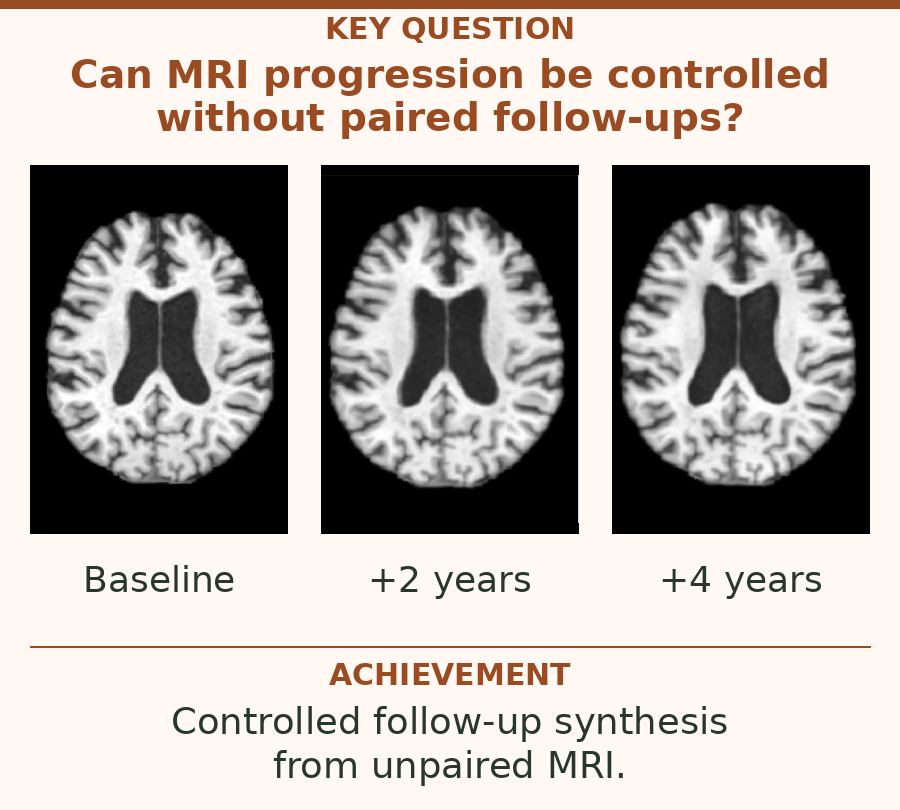
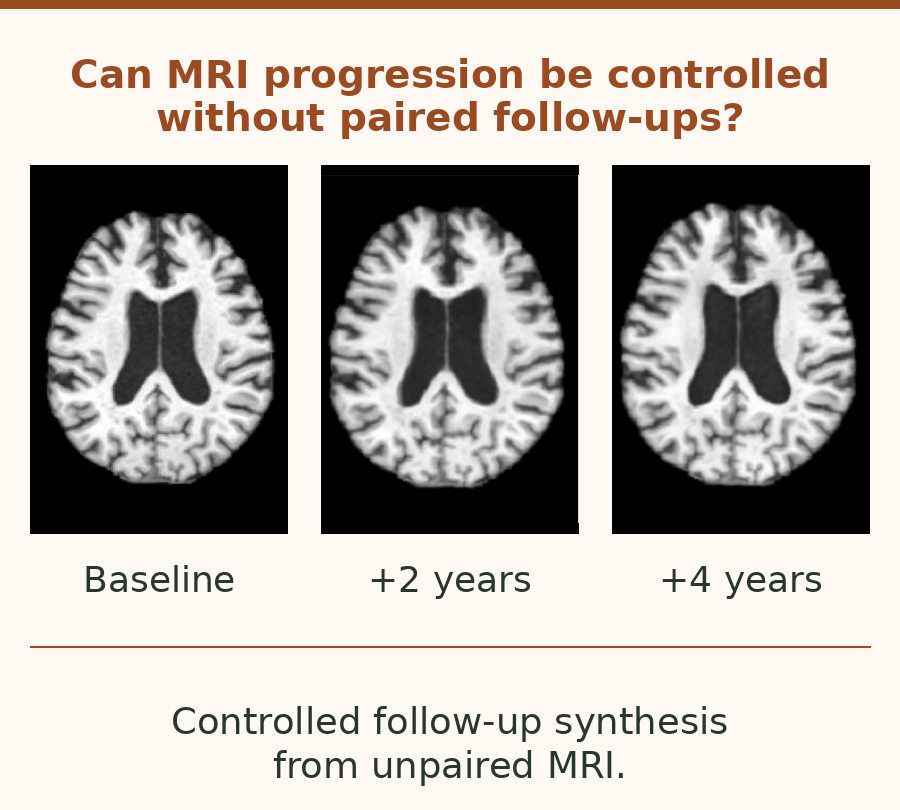
Remove headings from work highlight images
Remove only the Key question and Achievement labels while preserving all statements, medical imagery and modelling flows.

Copilot-Session: de9f66c0-7970-44bd-9dd5-6290aaad4bb2

Changed region(s): [[0.3422, 0.0, 0.6533, 0.0617], [0.3733, 0.8025, 0.6222, 0.8642]]

diff --git a/index.html b/index.html
@@ -81,7 +81,7 @@
 
       <div class="pub-card highlight">
         <a class="pub-thumb" href="https://arxiv.org/abs/2603.01552" target="_blank">
-          <img src="assets/papers/align-cdae-thesis.webp?v=2" alt="Key question: Can clinical cues guide anatomical change in MRI? Baseline MRI, attention overlay and predicted follow-up. Achievement: aligned clinical conditioning with progression-specific anatomy." width="900" height="810" loading="lazy" />
+          <img src="assets/papers/align-cdae-thesis.webp?v=3" alt="Can clinical cues guide anatomical change in MRI? Baseline MRI, attention overlay and predicted follow-up. Aligned clinical conditioning with progression-specific anatomy." width="900" height="810" loading="lazy" />
           <span class="architecture-flow flow-align" role="img" aria-label="Simplified Align-cDAE architecture: MRI encoder, attention-aligned conditional modelling, diffusion decoder.">
             <span class="flow-step" aria-hidden="true"><span>MRI<br />encoder</span></span>
             <span class="flow-step flow-modelling" aria-hidden="true"><span>Attention<br />aligned<br />Modelling</span></span>
@@ -101,7 +101,7 @@
 
       <div class="pub-card highlight">
         <a class="pub-thumb" href="https://arxiv.org/abs/2511.05934" target="_blank">
-          <img src="assets/papers/ad-dae-thesis.webp?v=2" alt="Key question: Can MRI progression be controlled without paired follow-ups? Acquired baseline MRI and predictions two and four years later. Achievement: controlled follow-up synthesis from unpaired MRI." width="900" height="810" loading="lazy" />
+          <img src="assets/papers/ad-dae-thesis.webp?v=3" alt="Can MRI progression be controlled without paired follow-ups? Acquired baseline MRI and predictions two and four years later. Controlled follow-up synthesis from unpaired MRI." width="900" height="810" loading="lazy" />
           <span class="architecture-flow flow-ad" role="img" aria-label="Simplified AD-DAE architecture: MRI encoder, latent-shift modelling guided by age and cognitive status, diffusion decoder.">
             <span class="flow-step" aria-hidden="true"><span>MRI<br />encoder</span></span>
             <span class="flow-step flow-modelling" aria-hidden="true"><span>Latent<br />shift<br />Modelling</span></span>
@@ -122,7 +122,7 @@
 
       <div class="pub-card highlight">
         <a class="pub-thumb" href="https://arxiv.org/abs/2507.02405" target="_blank">
-          <img src="assets/papers/posdiffae-thesis.webp?v=2" alt="Key question: Can position guide brain-region classification? Original Nissl-stained brain section and PosDiffAE-predicted region map from thesis Figure 3.5. Achievement: position-aware representations for brain-region classification." width="900" height="810" loading="lazy" />
+          <img src="assets/papers/posdiffae-thesis.webp?v=3" alt="Can position guide brain-region classification? Original Nissl-stained brain section and PosDiffAE-predicted region map from thesis Figure 3.5. Position-aware representations for brain-region classification." width="900" height="810" loading="lazy" />
           <span class="architecture-flow flow-pos" role="img" aria-label="Simplified PosDiffAE classification architecture: patch encoder, position-aware diffusion modelling, region classifier using the learned representations.">
             <span class="flow-step" aria-hidden="true"><span>Patch<br />encoder</span></span>
             <span class="flow-step flow-modelling" aria-hidden="true"><span>Position-<br />aware<br />Modelling</span></span>
@@ -143,7 +143,7 @@
 
       <div class="pub-card highlight">
         <a class="pub-thumb" href="https://arxiv.org/abs/2211.15527" target="_blank">
-          <img src="assets/papers/representation-study-thesis.webp?v=2" alt="Key question: What makes MRI representations useful for anomaly detection? GLOW reconstructions with unperturbed and perturbed latent representations. Achievement: characterized compactness, separability and controllability." width="900" height="810" loading="lazy" />
+          <img src="assets/papers/representation-study-thesis.webp?v=3" alt="What makes MRI representations useful for anomaly detection? GLOW reconstructions with unperturbed and perturbed latent representations. Characterized compactness, separability and controllability." width="900" height="810" loading="lazy" />
           <span class="architecture-flow flow-representation" role="img" aria-label="Simplified representation-analysis flow: MRI encoder, latent-space modelling and perturbation analysis, MRI decoder.">
             <span class="flow-step" aria-hidden="true"><span>MRI<br />encoder</span></span>
             <span class="flow-step flow-modelling" aria-hidden="true"><span>Latent<br />space<br />Modelling</span></span>
